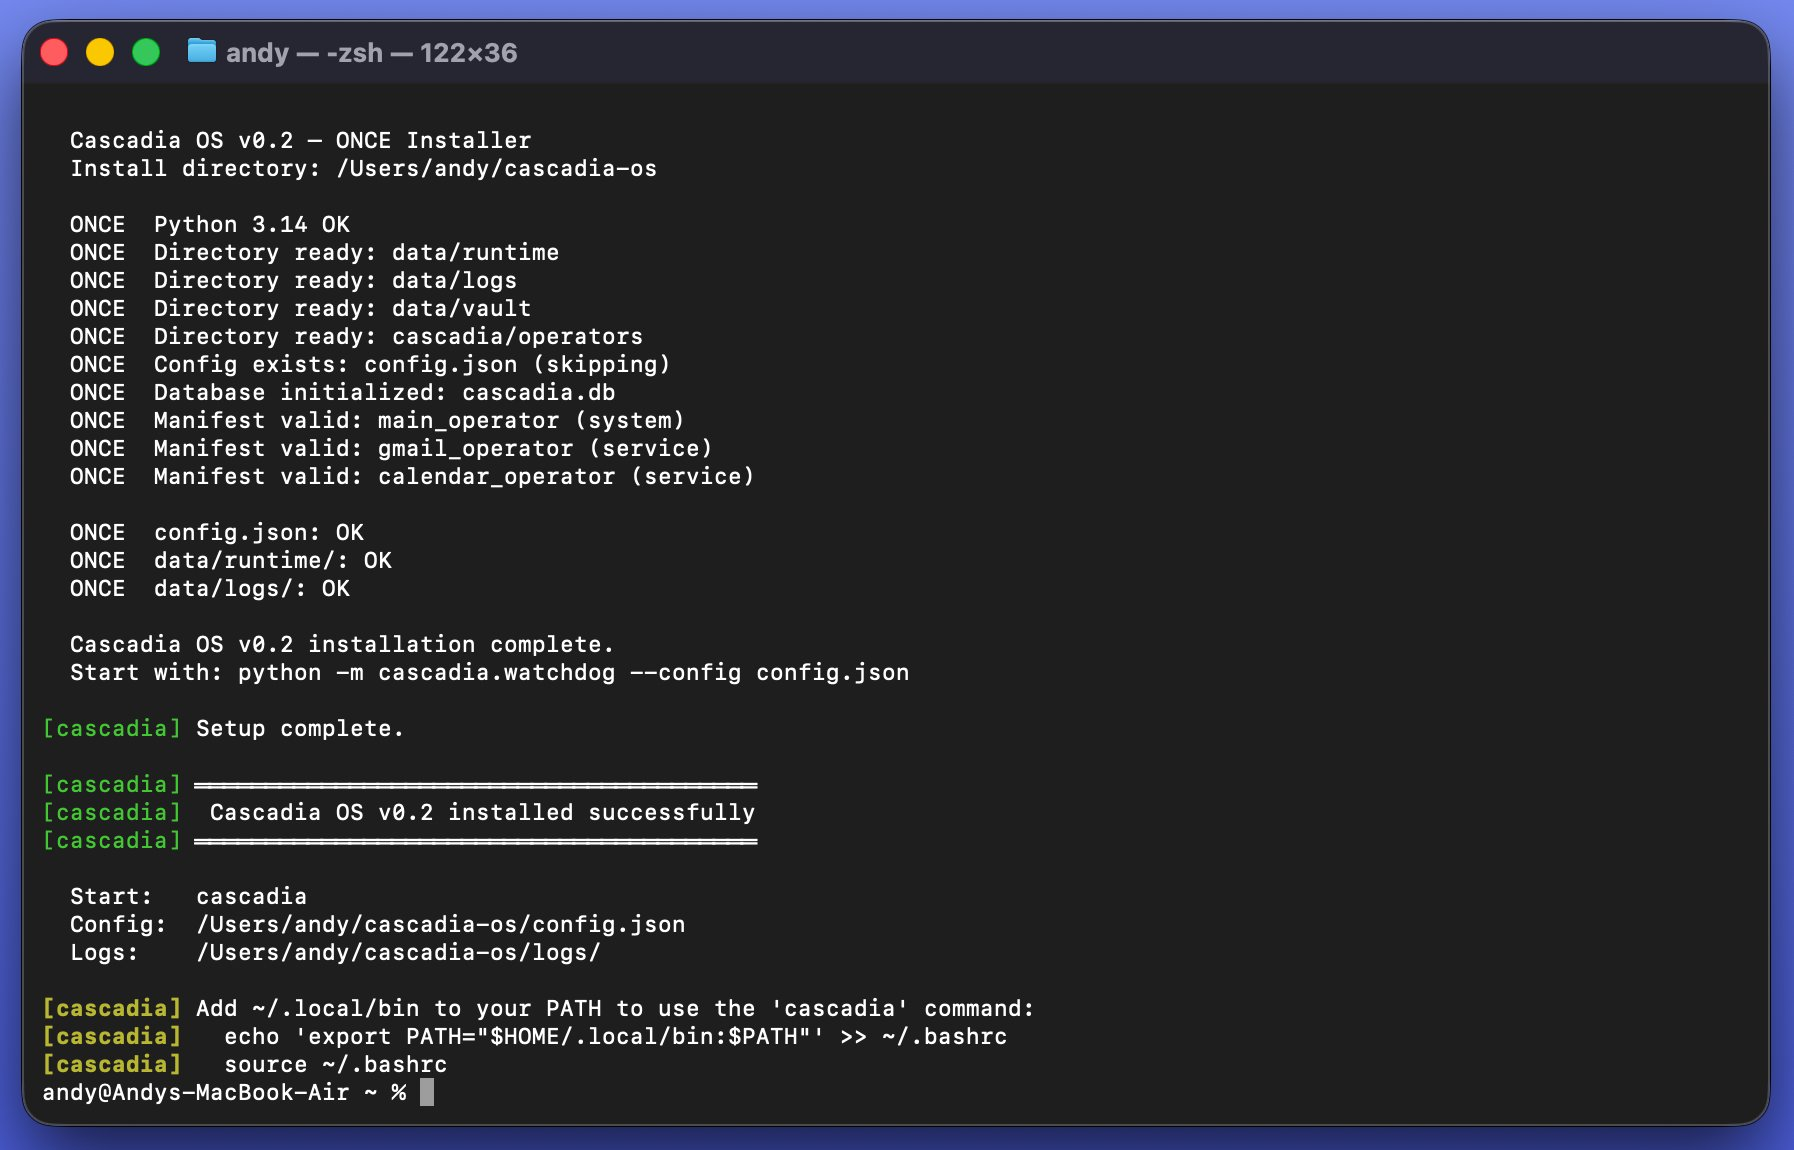
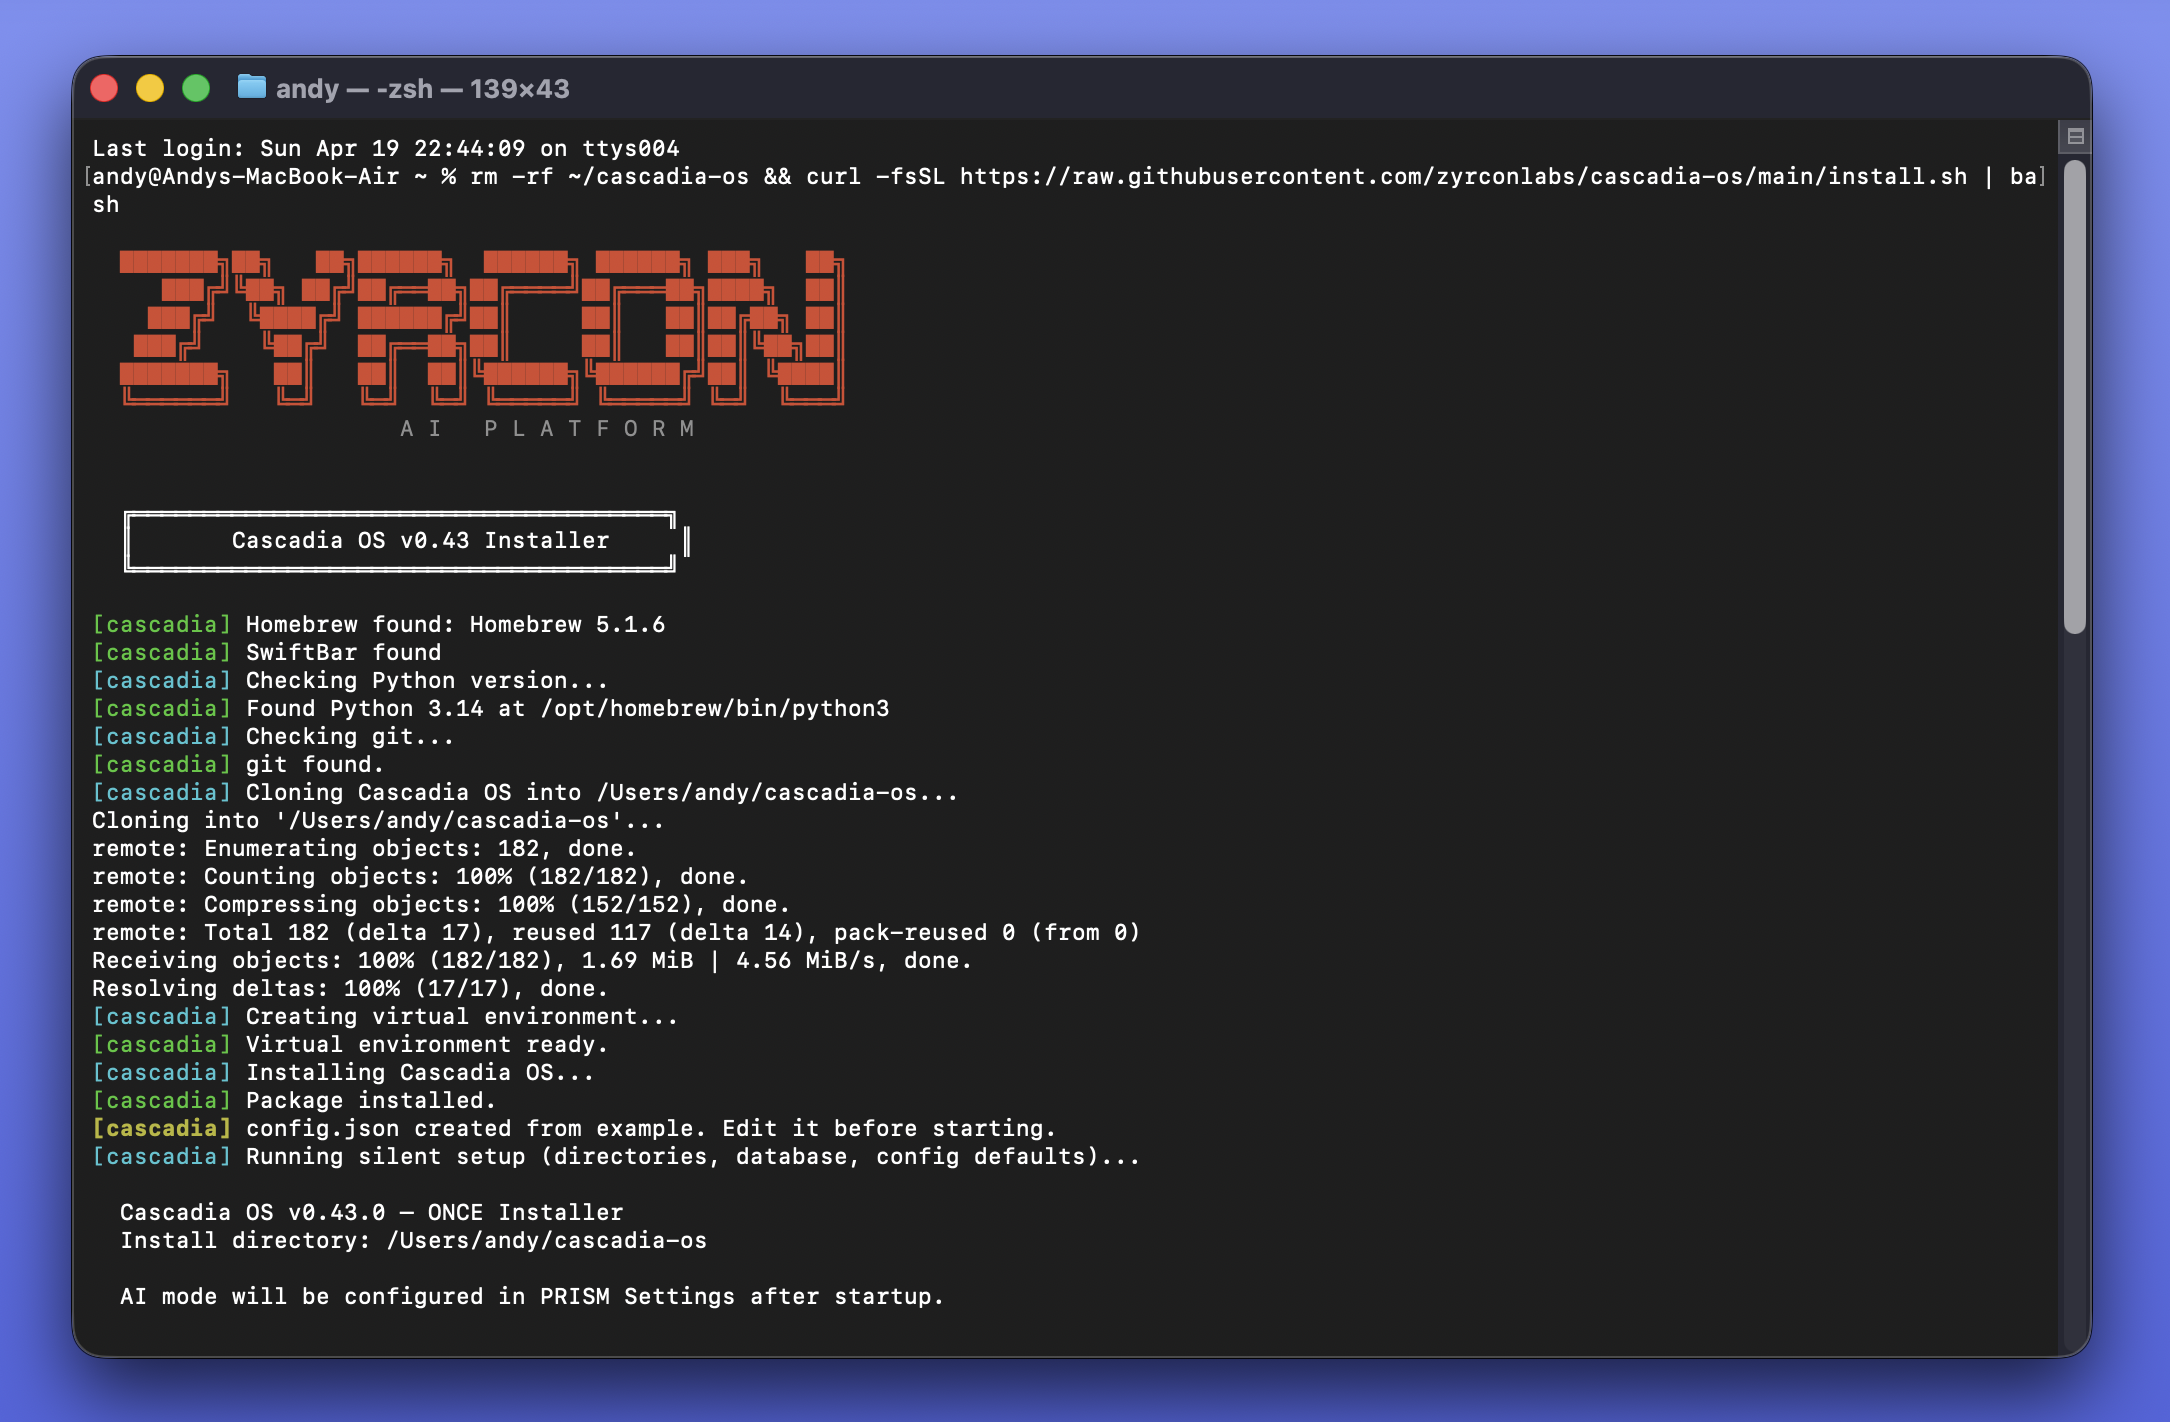
feat: 16 screenshots added — install, PRISM, operators, demo, health, approvals, RECON dashboard, GPU inference

Changed region(s): [[0.0, 0.0, 1.0, 1.0], [0.4058, 0.1217, 0.9052, 0.1522]]

diff --git a/README.md b/README.md
@@ -48,17 +48,39 @@ bash demo.sh
 
 ## See it working
 
-**One-click install — done in under a minute:**
+**One command installs everything — under a minute:**
 ![Install](./assets/install.png)
+![Install Complete](./assets/install_complete.png)
 
-**Watchdog running — all 11 kernel components healthy:**
-![Watchdog](./assets/watchdog.png)
-
-**PRISM dashboard — live system status:**
+**PRISM dashboard — all operators online, SwiftBar live status:**
 ![PRISM Dashboard](./assets/prism.png)
 
-**Crash recovery — 21/21 tests passed:**
-![Crash Recovery](./assets/crash_recovery.png)
+**Settings — hardware detection, Local AI recommended automatically:**
+![Settings](./assets/settings.png)
+
+**Health & Observability — infrastructure and operators, all green:**
+![Health](./assets/health.png)
+
+**Real metrics from session — 15 runs, $0.017, zero failures:**
+![Observability](./assets/observability.png)
+
+**Approval gates — nothing sensitive executes without human sign-off:**
+![Approvals](./assets/approvals.png)
+
+**Operators at work — Debrief extracting action items from call notes:**
+![Debrief](./assets/debrief.png)
+
+**CHIEF morning brief — RECON dashboard showing 67 rows, 283 research cycles:**
+![RECON Dashboard](./assets/recon_dashboard.png)
+
+**Demo — lead arrives, approval gate fires, system crashes, resumes exactly where it left off:**
+![Demo](./assets/demo_complete.png)
+
+**All 11 kernel components ready — one watchdog, one FLINT, stable:**
+![Watchdog](./assets/watchdog.png)
+
+**Local inference — Apple M1 running at full GPU acceleration, no cloud:**
+![GPU Inference](./assets/gpu_inference.png)
 
 ---
 
@@ -98,7 +120,6 @@ Cascadia OS coordinates AI operators that:
 ### Durability layer
 | Module | What it does |
 |---|---|
-| VAULT | SQLite-backed memory, context and state across sessions |
 | VAULT | SQLite-backed memory, context and state across sessions and crashes |
 | CURTAIN | AES-256-GCM field encryption, HMAC-SHA256 envelope signing |
 
@@ -158,7 +179,6 @@ Full documentation: [PRISM_MANUAL.md](./PRISM_MANUAL.md)
 |---|---|---|---|
 | RECON | Intelligence | Production | Autonomous web research, extracts contacts to CSV |
 | SCOUT | Inbound | Production | Chat widget, qualifies leads, routes to workflow |
-| QUOTE | Sales | Beta  | RFQ to proposal in under 5 minutes |
 | QUOTE | Sales | Beta | RFQ to proposal in under 5 minutes |
 | CHIEF | Intelligence | Beta | Daily brief synthesizing all operators |
 | Aurelia | Executive | Beta | EA — commitments, priorities, weekly CEO report |
